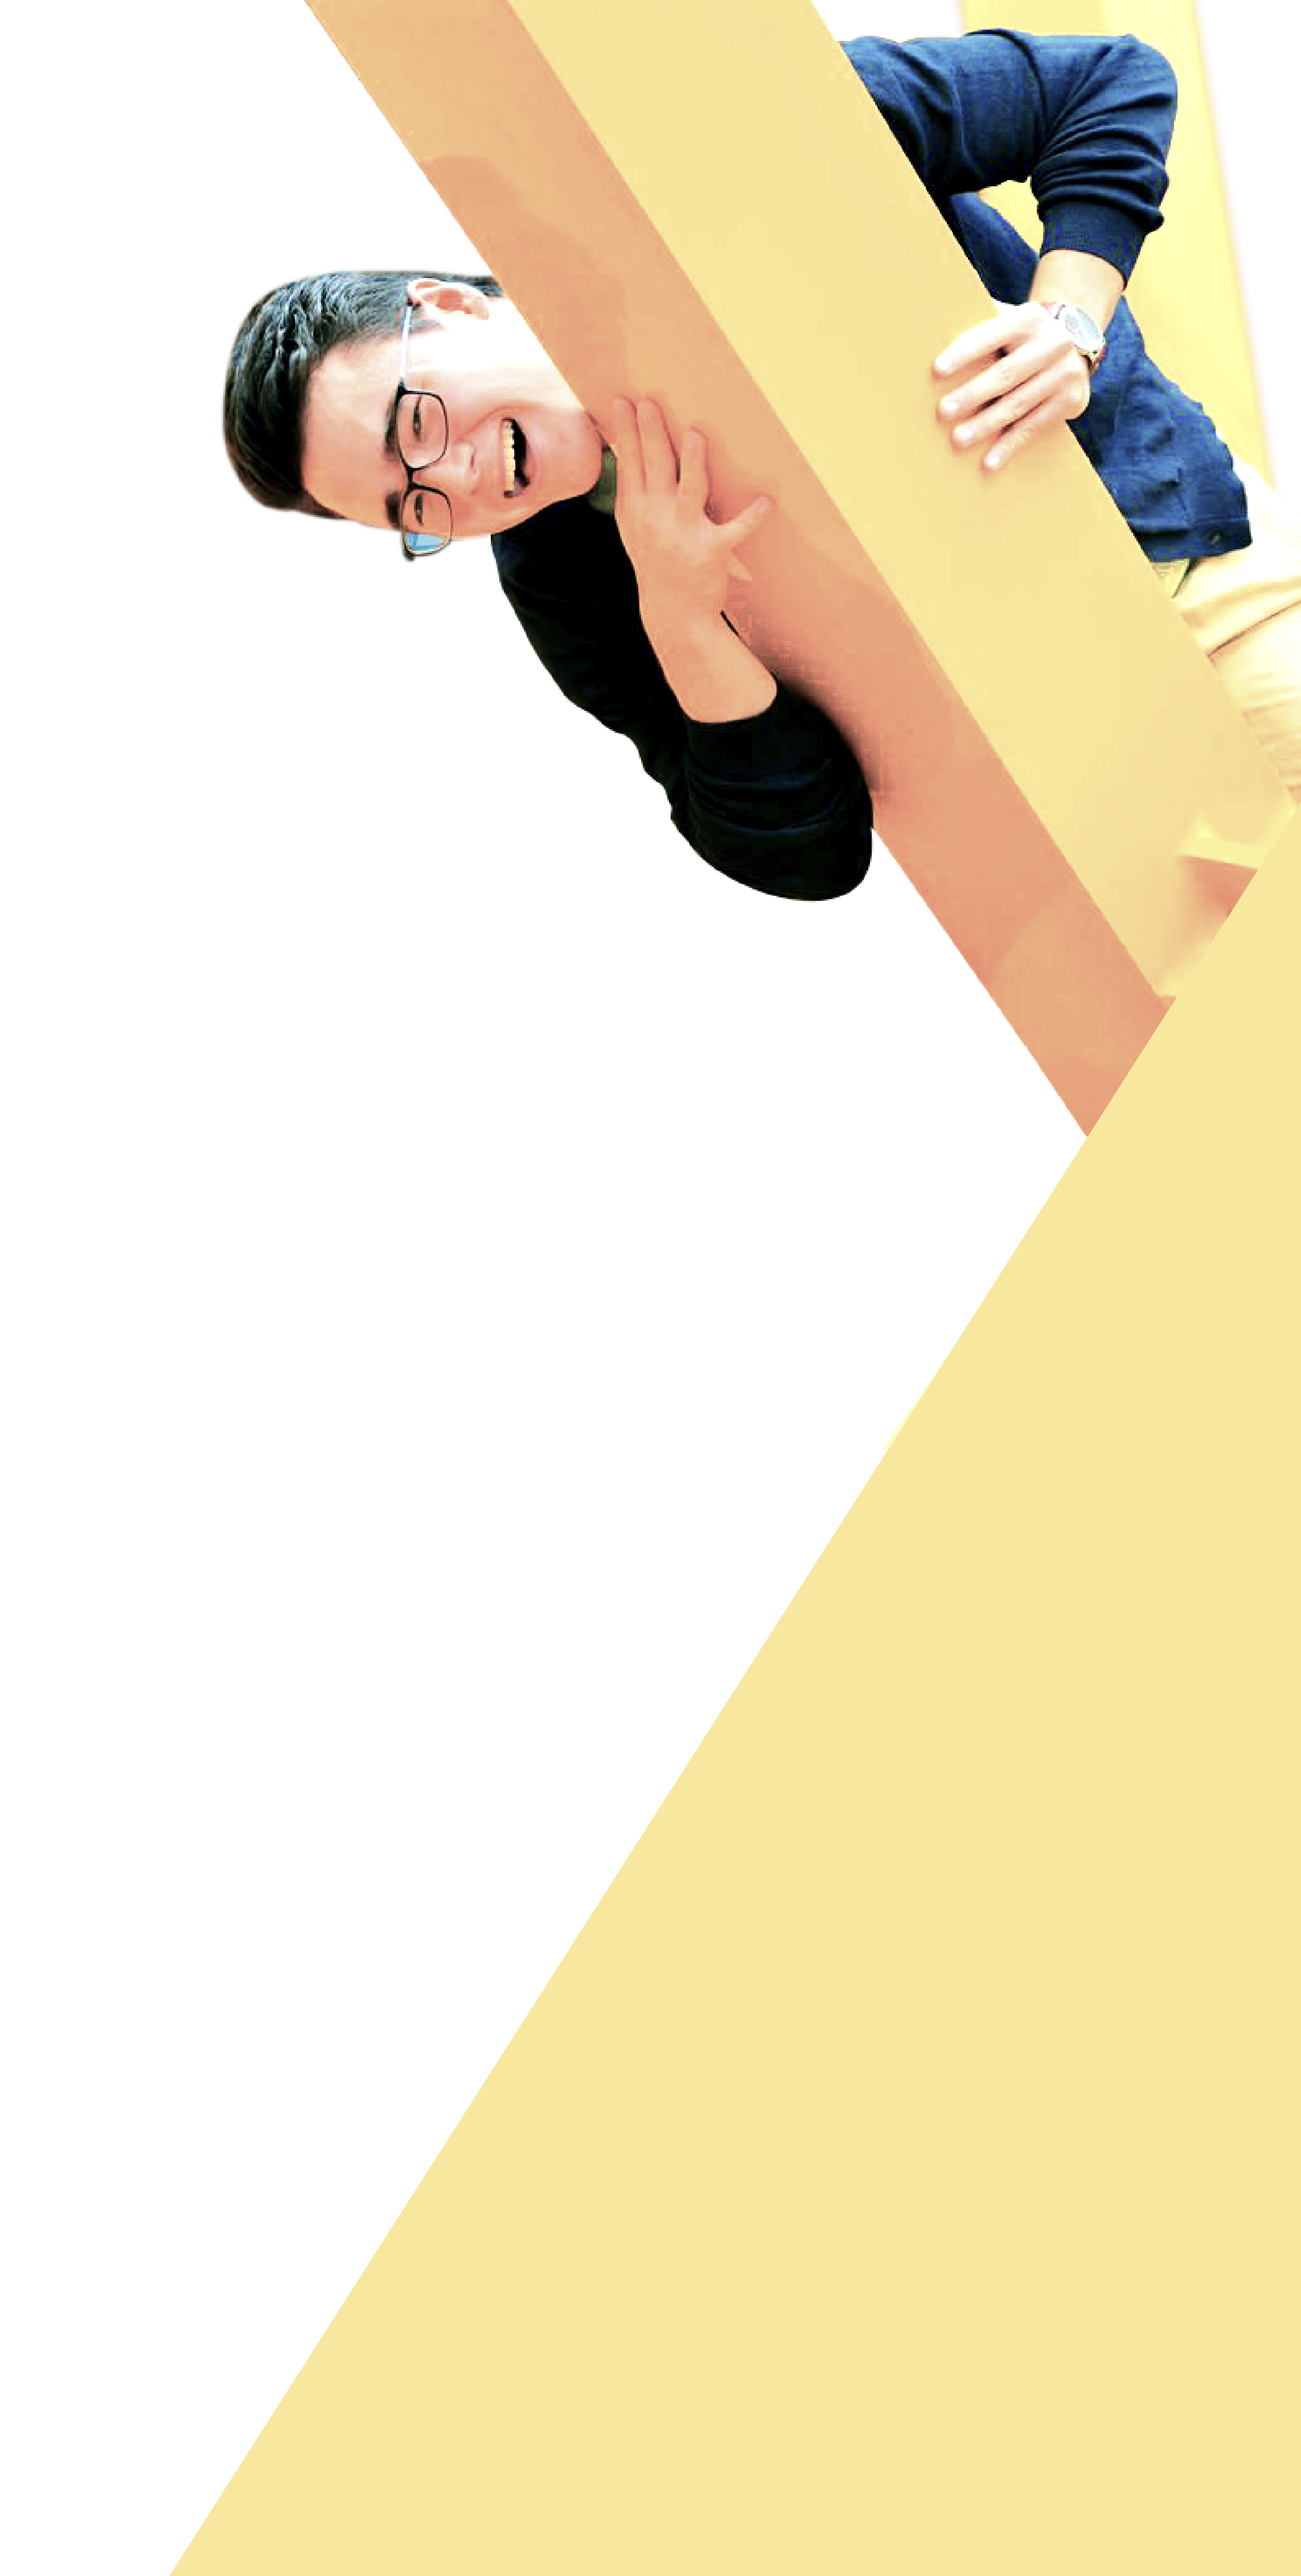
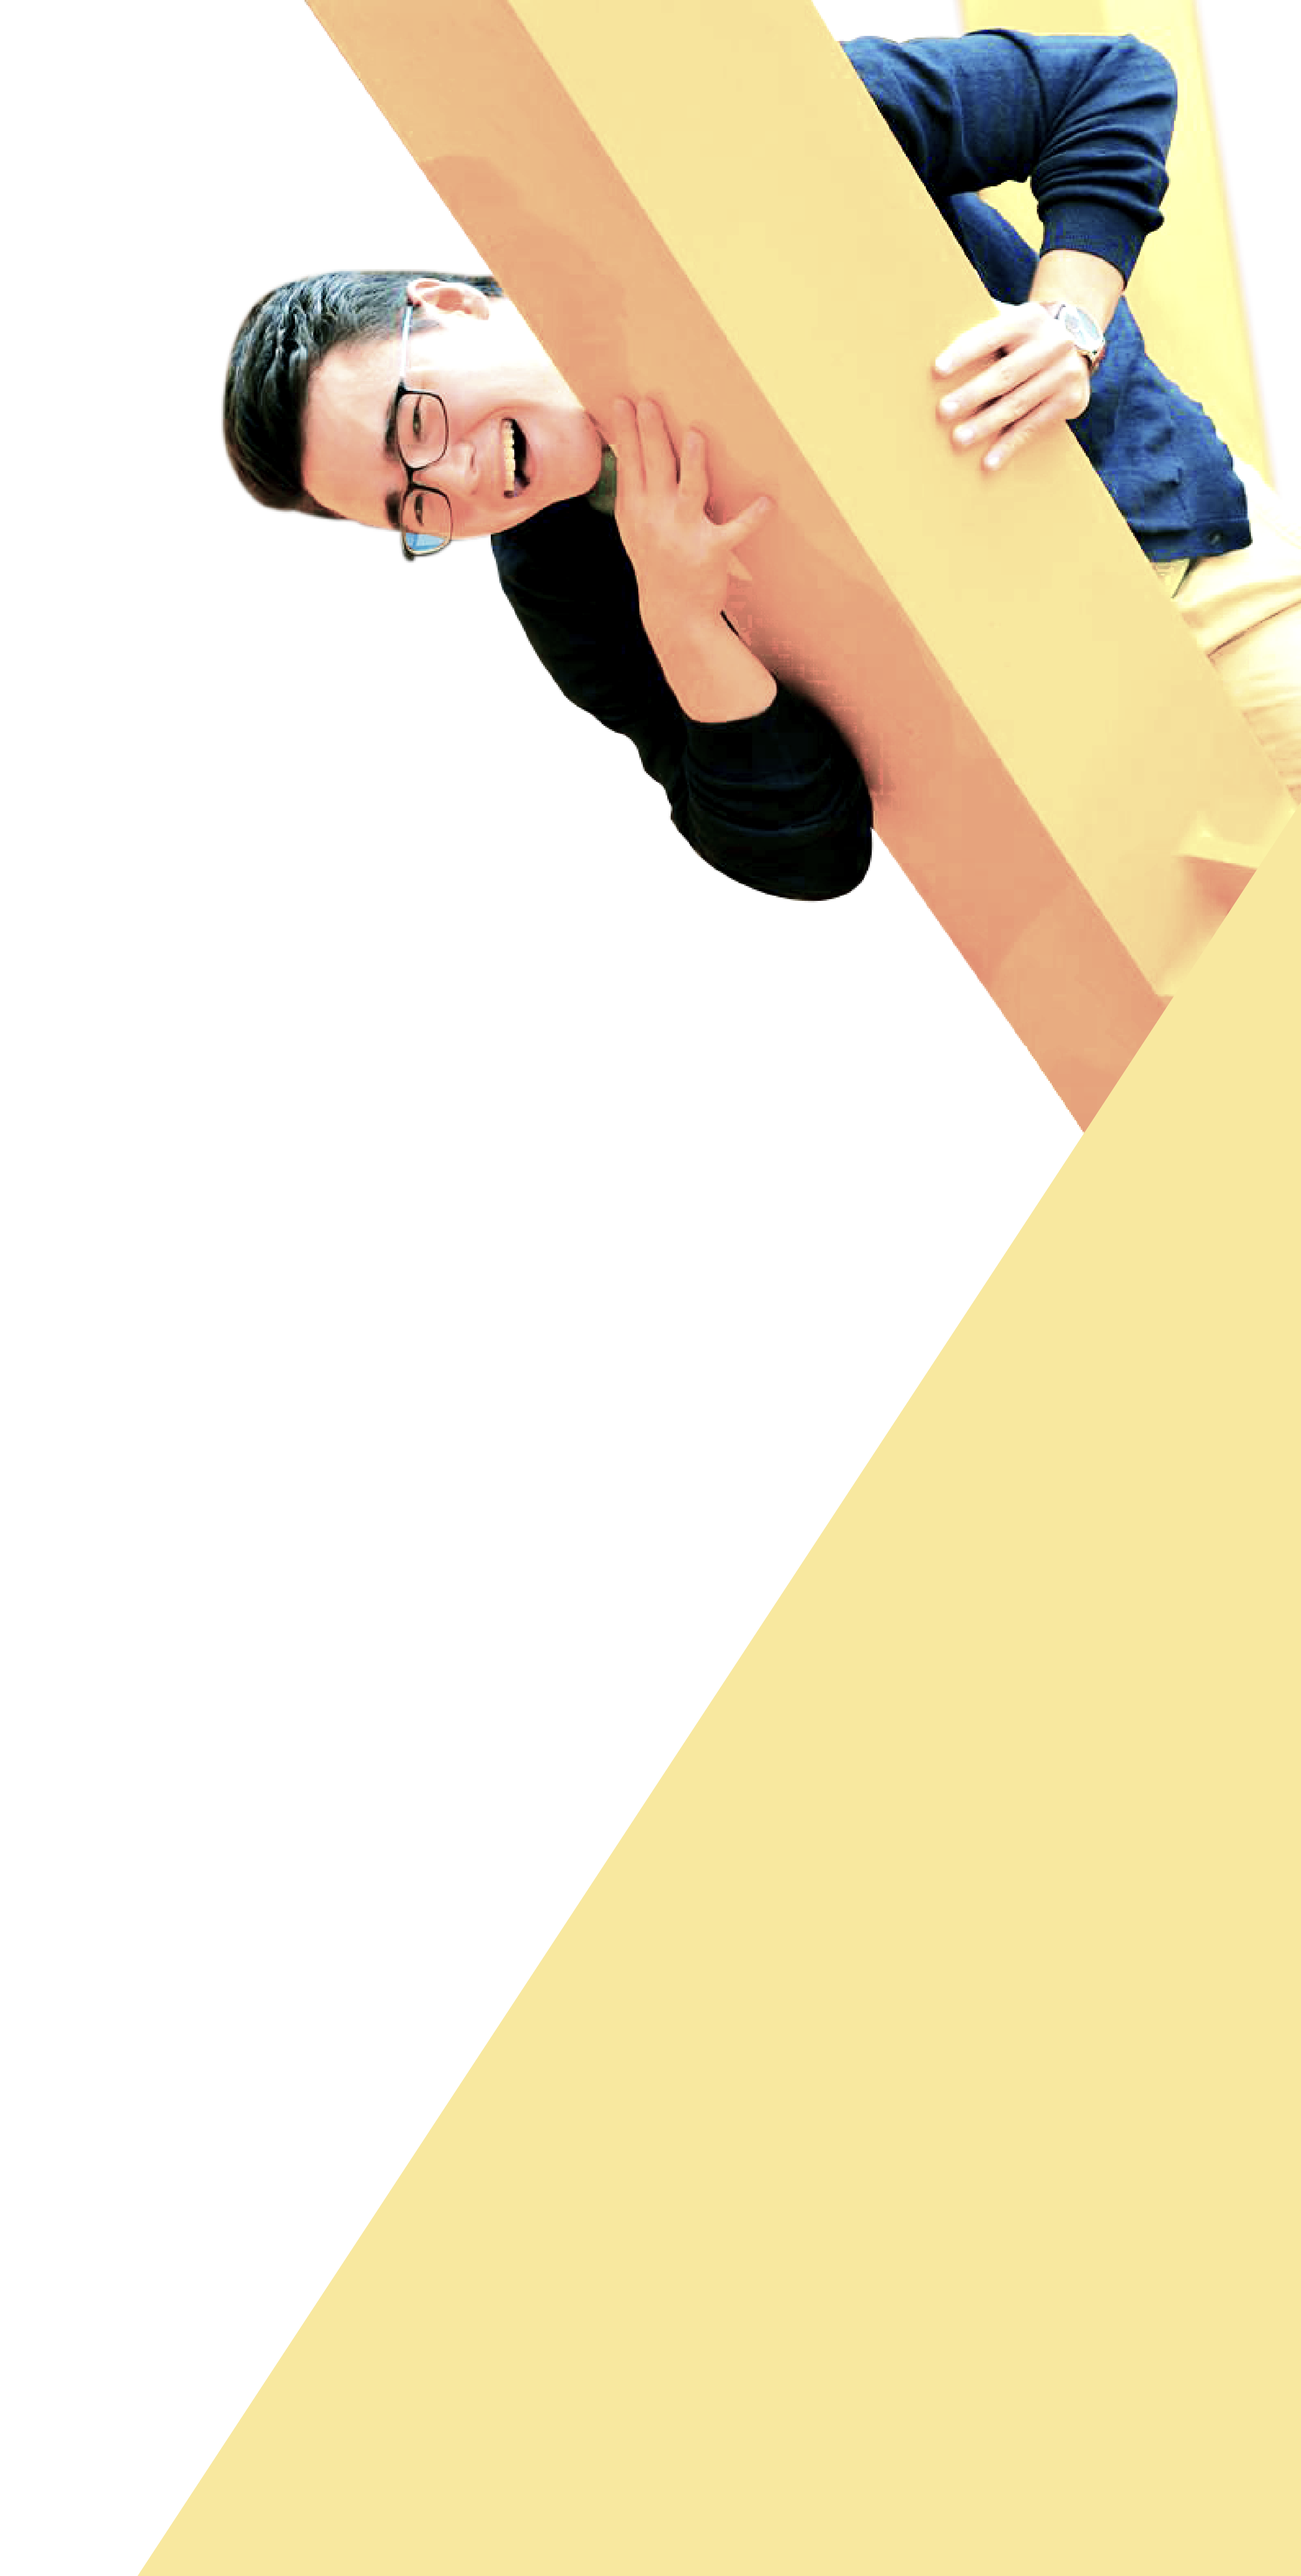
Circle hovers and image changing for mobile

diff --git a/index.html b/index.html
@@ -39,11 +39,12 @@
         <a href="http://devpost.com/software/theia-tsmj24" target="_blank">product designer</a>,
         <a href="https://www.behance.net/gallery/31809989/SwampHacks-Website" target="_blank">front end web developer</a>,
         <a href="https://dribbble.com/shots/2698569-Animated-Poyo-Logo" target="_blank">animator</a>,
+        <a href="https://youtu.be/vPeOLSFX_3Y?t=41m34s" target="_blank">actor</a>,
         <a href="https://www.youtube.com/watch?v=o4EeuVfzaVY" target="_blank">public speaker</a>,
         <a href="https://www.youtube.com/watch?v=z1LIP0X6gZA" target="_blank">salutatorian</a>,
         <a href="https://www.linkedin.com/in/takashiw" target="_blank">and some more.</a>
       </p>
-      <div class="col-md-12">
+      <div class="col-md-12 circles">
         <a href="http://www.linkedin.com/in/takashiw" target="_blank"><img class="link-circle" src="images/link-circles-07.png" alt="" /></a>
         <a href="http://dribbble.com/takashiw" target="_blank"><img class="link-circle" src="images/link-circles-05.png" alt="" /></a>
         <a href="http://devpost.com/takashiw" target="_blank"><img class="link-circle" src="images/link-circles-06.png" alt="" /></a>
@@ -51,16 +52,25 @@
         <a href="http://github.com/takashiw" target="_blank"><img class="link-circle" src="images/link-circles-09.png" alt="" /></a>
         <a href="TakashiWickes-F2016Resume.pdf" target="_blank"><img class="link-circle" src="images/link-circles-10.png" alt="" /></a>
 
+        <!-- <a href="http://www.linkedin.com/in/takashiw" target="_blank"><img class="link-circle hover" src="images/link-circles-hover-14.png" alt="" /></a>
+        <a href="http://dribbble.com/takashiw" target="_blank"><img class="link-circle hover" src="images/link-circles-hover-12.png" alt="" /></a>
+        <a href="http://devpost.com/takashiw" target="_blank"><img class="link-circle hover" src="images/link-circles-hover-13.png" alt="" /></a>
+        <a href="http://be.net/takashiw" target="_blank"><img class="link-circle hover" src="images/link-circles-hover-15.png" alt="" /></a>
+        <a href="http://github.com/takashiw" target="_blank"><img class="link-circle hover" src="images/link-circles-hover-16.png" alt="" /></a>
+        <a href="TakashiWickes-F2016Resume.pdf" target="_blank"><img class="link-circle hover" src="images/link-circles-hover-11.png" alt="" /></a>
+ -->
 
       </div>
     </div>
 
     <!-- <img class="background-image" src="images/takashiwickes-mockup-03.png" alt="" /> -->
-    <img class="background-image" src="images/no-angle.png" alt="" />
+    <img class="background-image mobile" src="images/no-angle.png" alt="" />
+    <img class="background-image web" src="images/takashiwickes-mockup-03.png" alt="" />
+
 
     <div class="col-md-6 heart-container">
       <span class="heart">
-        Made with <i style="color: #FF4D40;" class="fa fa-heart pulse"></i> in an uber in NYC
+        Made with <i style="color: #FF4D40;" class="fa fa-heart pulse"></i> in an Uber in NYC
       </span>
     </div>
 

diff --git a/css/styles.css b/css/styles.css
@@ -51,16 +51,23 @@ p {
 
 p a {
   color: white;
-  border-bottom: 2px solid white;
+  border-bottom: 2px solid #bbf5ff;
 }
 
 p a:hover{
   color: #0aa7c1;
+  text-decoration: none;
+  border-bottom: 2px solid #4be1f9;
 }
+
+.circles a:hover .link-circle{
+  opacity: 0.5;
+}
+
 
 .background-image{
   position: absolute;
-  height: 700px;
+  height: 100vh;
   /*height: 100vh;*/
   right: 0;
   background-image: url(images/takashiwickes-mockup-03.png);
@@ -85,6 +92,10 @@ p a:hover{
   margin-bottom: 10px;
 }
 
+.mobile {
+  display: none;
+}
+
 /*.heart {
 	margin: 0 0 20px 0;
 	color: white;
@@ -96,14 +107,24 @@ p a:hover{
 .heart i {
   color: #FF4D40;
   text-decoration: none;
-}
+}*/
 .heart .fa {
   color: white;
   margin: 0 3px;
-  font-size: 10px;
-  animation: pound 0.35s infinite alternate;
-  -webkit-animation: pound 0.35s infinite alternate;
-}*/
+  animation: pound 0.5s infinite alternate;
+  -webkit-animation: pound 0.5s infinite alternate;
+}
+
+@-webkit-keyframes pound {
+  to {
+    transform: scale(1.2);
+  }
+}
+@keyframes pound {
+  to {
+    transform: scale(1.2);
+  }
+}
 
 @media screen and (max-width:770px){
   .background-image{
@@ -121,6 +142,14 @@ p a:hover{
 
   .heart-container {
     display: none;
+  }
+
+  .web {
+    display: none;
+  }
+
+  .mobile {
+    display: block;
   }
 
 }
